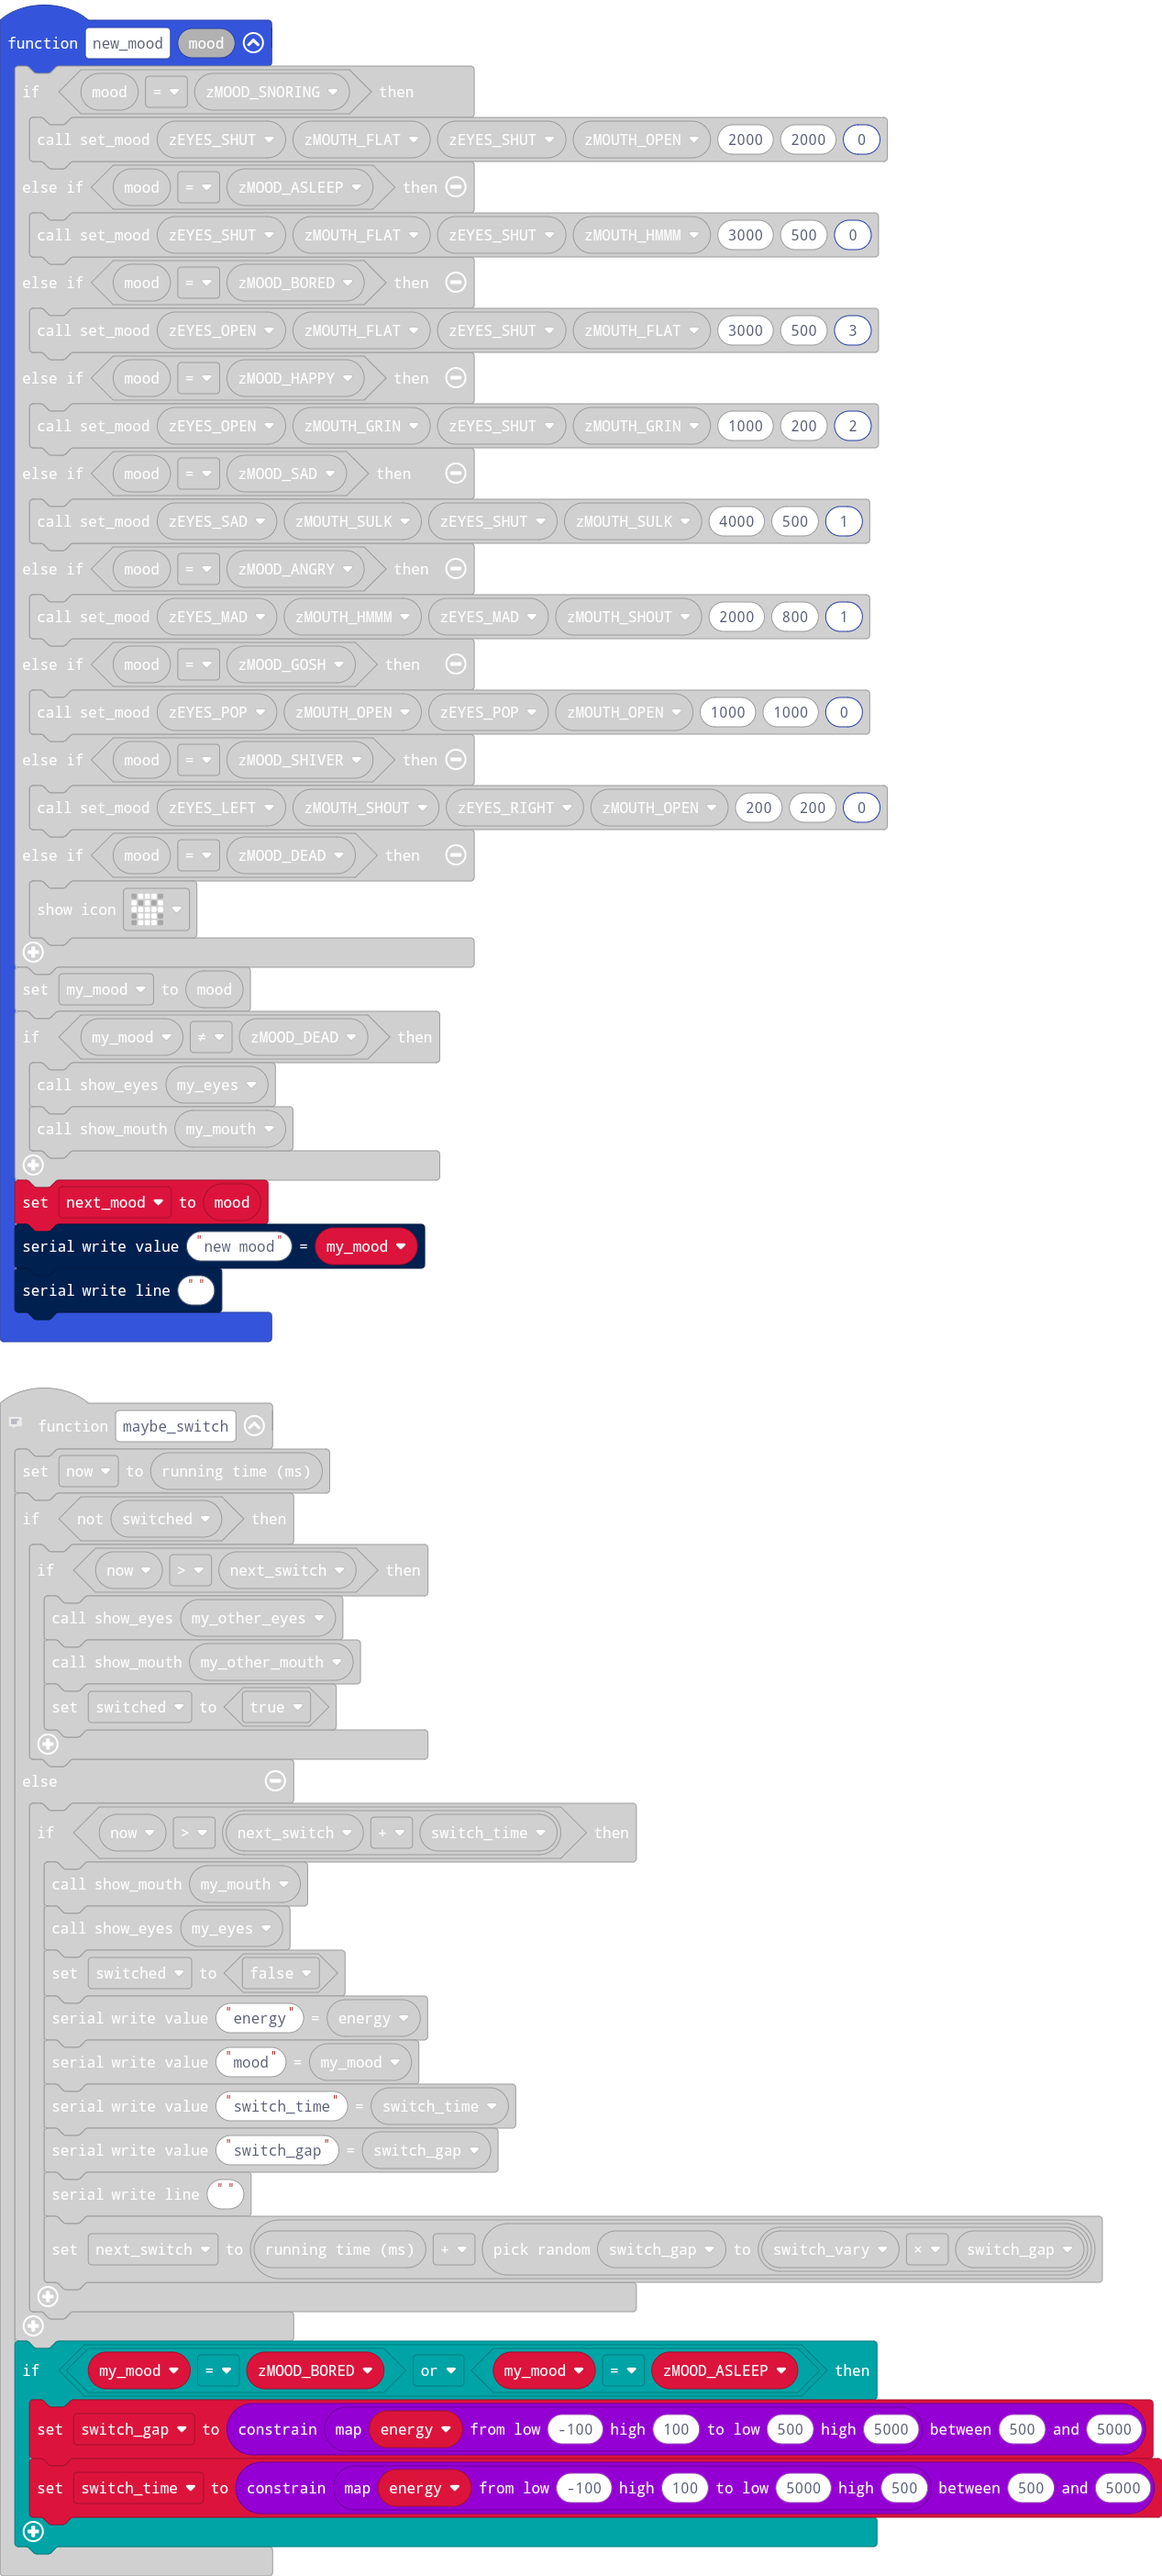
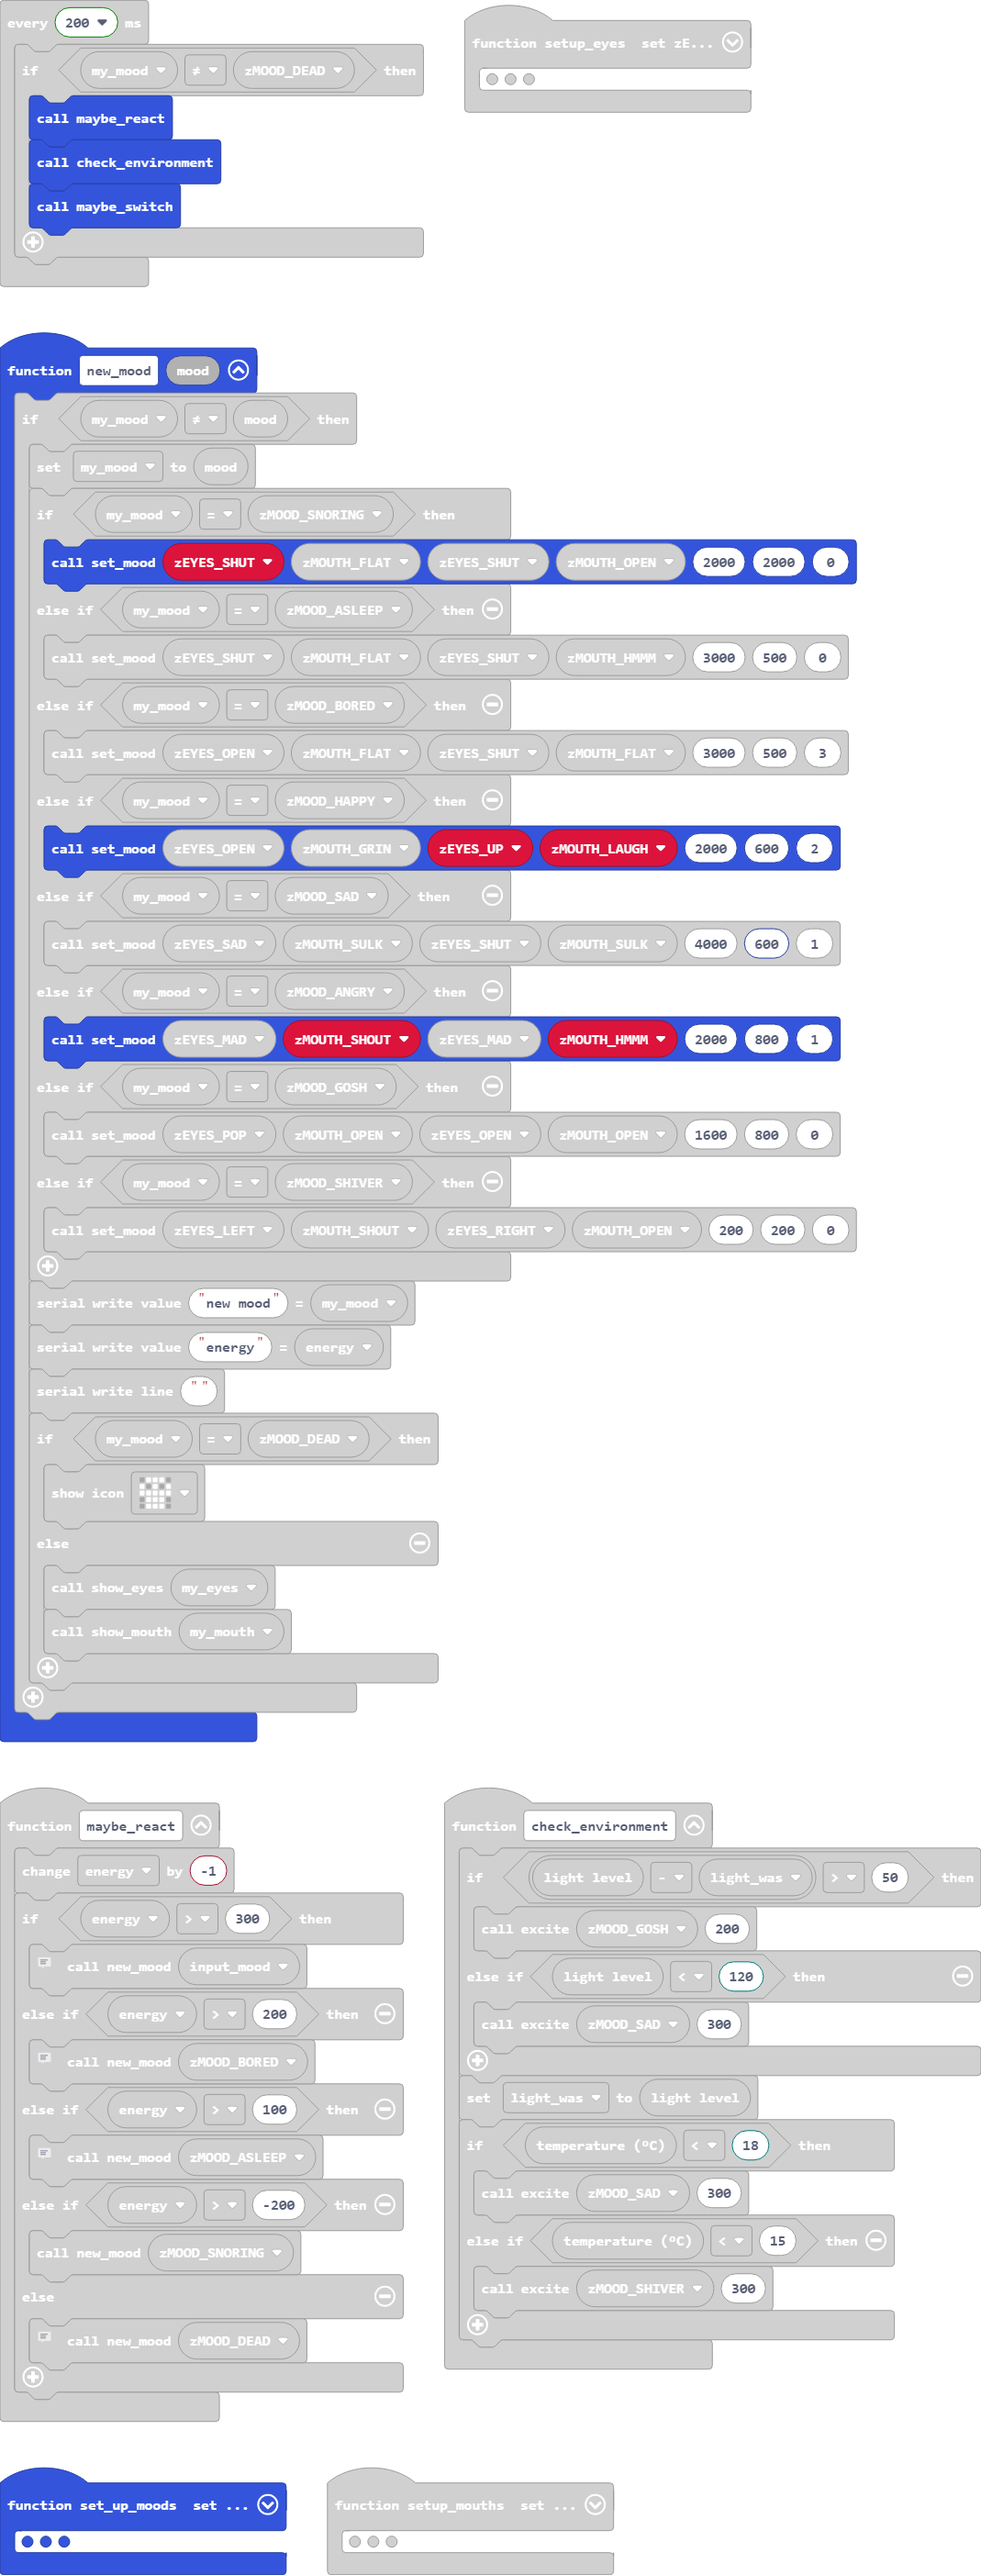
First working version

diff --git a/main.ts b/main.ts
@@ -51,6 +51,7 @@ function setup_eyes () {
     zEYES_RIGHT = 882
     zEYES_SAD = 874
     zEYES_SHUT = 864
+    zEYES_UP = 27
 }
 function show_mouth (mouth: number) {
     z_pixels = mouth
@@ -126,7 +127,7 @@ function set_mood (eyes: number, mouth: number, other_eyes: number, other_mouth:
     switched = false
 }
 function maybe_react () {
-    energy += -10
+    energy += -1
     if (energy > 300) {
         // finally react to exciting input
         new_mood(input_mood)
@@ -154,7 +155,7 @@ function setup_mouths () {
     zMOUTH_RIGHT = 12800
     zMOUTH_SHOUT = 14660
     zMOUTH_SULK = 17856
-    zMOUTH_LAUGH = 14911
+    zMOUTH_LAUGH = 15332
     zMOUTH_KISS = 10378
 }
 input.onGesture(Gesture.ThreeG, function () {
@@ -164,17 +165,17 @@ function new_mood (mood: number) {
     if (my_mood != mood) {
         my_mood = mood
         if (my_mood == zMOOD_SNORING) {
-            set_mood(zEYES_POP, zMOUTH_FLAT, zEYES_SHUT, zMOUTH_OPEN, 2000, 2000, 0)
+            set_mood(zEYES_SHUT, zMOUTH_FLAT, zEYES_SHUT, zMOUTH_OPEN, 2000, 2000, 0)
         } else if (my_mood == zMOOD_ASLEEP) {
             set_mood(zEYES_SHUT, zMOUTH_FLAT, zEYES_SHUT, zMOUTH_HMMM, 3000, 500, 0)
         } else if (my_mood == zMOOD_BORED) {
             set_mood(zEYES_OPEN, zMOUTH_FLAT, zEYES_SHUT, zMOUTH_FLAT, 3000, 500, 3)
         } else if (my_mood == zMOOD_HAPPY) {
-            set_mood(zEYES_OPEN, zMOUTH_GRIN, zEYES_SHUT, zMOUTH_GRIN, 1000, 200, 2)
+            set_mood(zEYES_OPEN, zMOUTH_GRIN, zEYES_UP, zMOUTH_LAUGH, 2000, 600, 2)
         } else if (my_mood == zMOOD_SAD) {
-            set_mood(zEYES_SAD, zMOUTH_SULK, zEYES_SHUT, zMOUTH_SULK, 4000, 500, 1)
+            set_mood(zEYES_SAD, zMOUTH_SULK, zEYES_SHUT, zMOUTH_SULK, 4000, 600, 1)
         } else if (my_mood == zMOOD_ANGRY) {
-            set_mood(zEYES_MAD, zMOUTH_HMMM, zEYES_MAD, zMOUTH_SHOUT, 2000, 800, 1)
+            set_mood(zEYES_MAD, zMOUTH_SHOUT, zEYES_MAD, zMOUTH_HMMM, 2000, 800, 1)
         } else if (my_mood == zMOOD_GOSH) {
             set_mood(zEYES_POP, zMOUTH_OPEN, zEYES_OPEN, zMOUTH_OPEN, 1600, 800, 0)
         } else if (my_mood == zMOOD_SHIVER) {
@@ -194,11 +195,11 @@ function new_mood (mood: number) {
 function check_environment () {
     if (input.lightLevel() - light_was > 50) {
         excite(zMOOD_GOSH, 200)
-    } else if (input.lightLevel() < 100) {
+    } else if (input.lightLevel() < 120) {
         excite(zMOOD_SAD, 300)
     }
     light_was = input.lightLevel()
-    if (input.temperature() < 15) {
+    if (input.temperature() < 18) {
         excite(zMOOD_SAD, 300)
     } else if (input.temperature() < 15) {
         excite(zMOOD_SHIVER, 300)
@@ -222,6 +223,7 @@ let my_other_mouth = 0
 let my_other_eyes = 0
 let next_switch = 0
 let now = 0
+let zEYES_UP = 0
 let zEYES_SHUT = 0
 let zEYES_SAD = 0
 let zEYES_POP = 0
@@ -259,8 +261,10 @@ light_was = input.lightLevel()
 energy = 300
 input_mood = -1
 new_mood(zMOOD_BORED)
-loops.everyInterval(1000, function () {
+loops.everyInterval(200, function () {
     if (my_mood != zMOOD_DEAD) {
         maybe_react()
+        check_environment()
+        maybe_switch()
     }
 })
